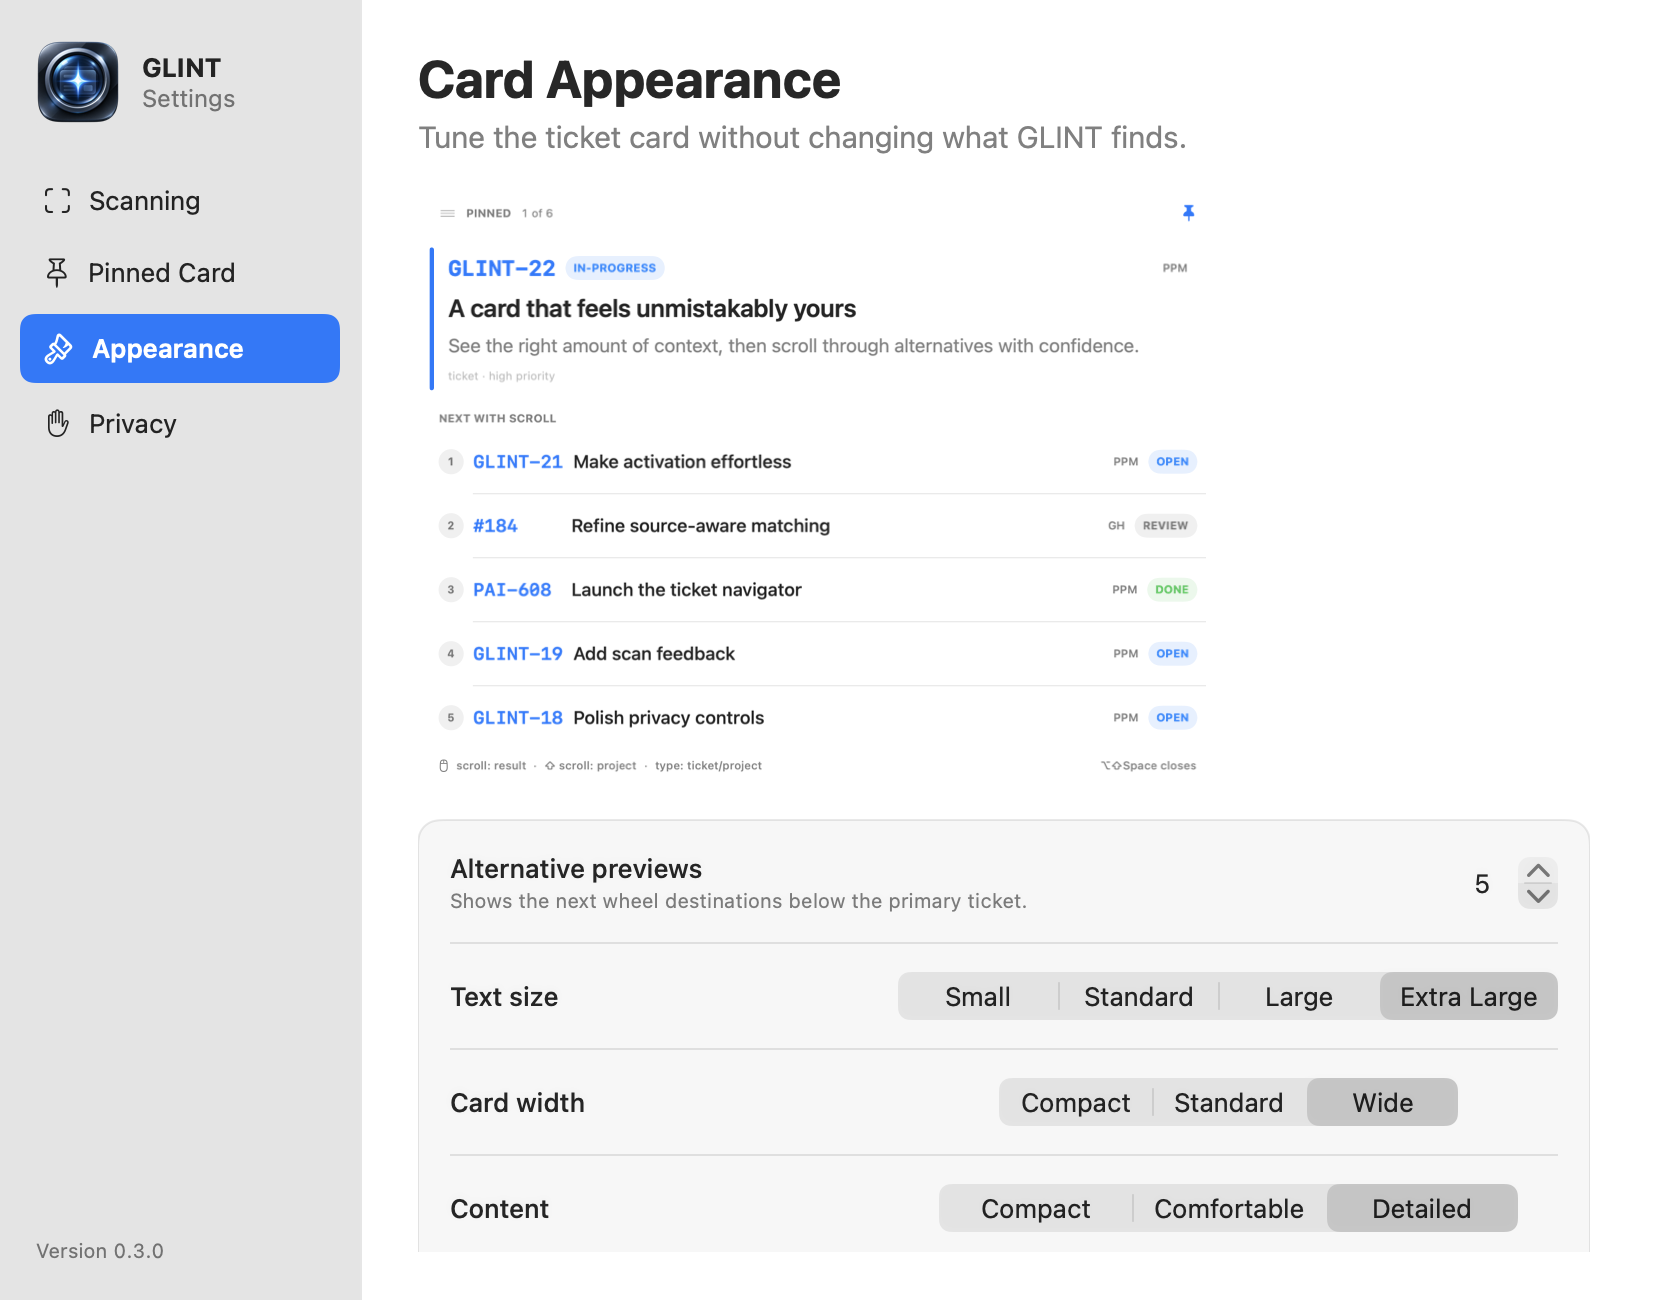
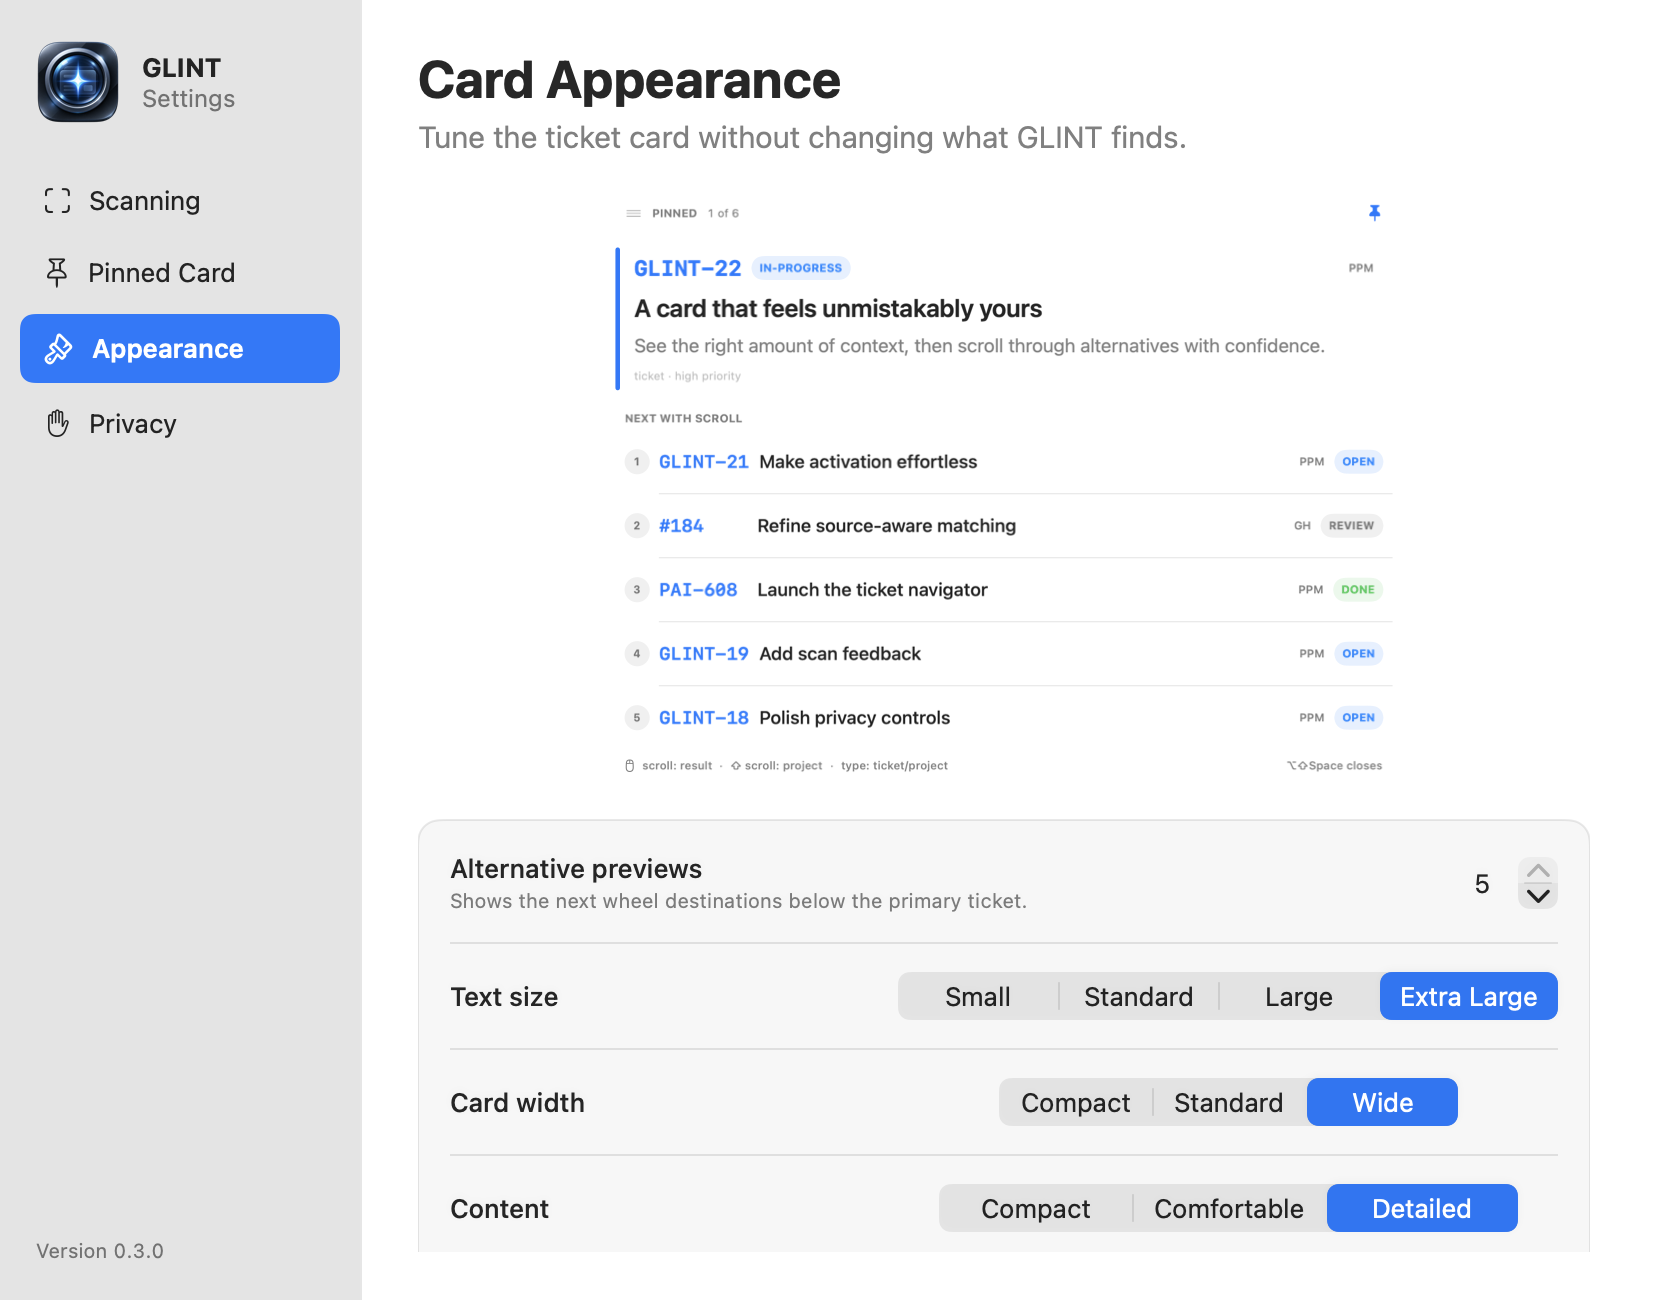
Protect pinned input from stale scans

diff --git a/Sources/Glint/HoverCoordinator.swift b/Sources/Glint/HoverCoordinator.swift
@@ -56,6 +56,25 @@ enum DirectEntryResolutionPlanner {
     }
 }
 
+enum PinnedScanOwnershipPolicy {
+    static func shouldInvalidateForInput(alreadyClaimed: Bool) -> Bool {
+        !alreadyClaimed
+    }
+
+    static func permitsCompletion(
+        startedScanGeneration: Int,
+        currentScanGeneration: Int,
+        startedDirectGeneration: Int,
+        currentDirectGeneration: Int,
+        startedEditGeneration: Int,
+        currentEditGeneration: Int
+    ) -> Bool {
+        startedScanGeneration == currentScanGeneration &&
+            startedDirectGeneration == currentDirectGeneration &&
+            startedEditGeneration == currentEditGeneration
+    }
+}
+
 @MainActor final class HoverCoordinator {
     private enum Presentation { case temporary, pinned }
 
@@ -78,6 +97,8 @@ enum DirectEntryResolutionPlanner {
     private var editState = PinnedEditState()
     private var editTask: Task<Void, Never>?
     private var directGeneration = 0
+    private var pinnedEditGeneration = 0
+    private var pinnedInputClaimedCurrentScan = false
     private struct PendingManualScan {
         let position: CGPoint
         let presentation: Presentation
@@ -119,6 +140,7 @@ enum DirectEntryResolutionPlanner {
         }
         directGeneration += 1
         let presentation: Presentation = overlay.isSticky ? .pinned : .temporary
+        if presentation == .pinned { beginPinnedScanOwnership() }
         if isScanning {
             scanGeneration += 1
             activeScanTask?.cancel()
@@ -159,12 +181,14 @@ enum DirectEntryResolutionPlanner {
             return
         case .pinTemporary:
             resetEditing()
+            beginPinnedScanOwnership()
             overlay.pin(shortcutLabel: pinShortcutLabel)
             syncSelectionContext()
             appState?.activity = "Pinned"
             return
         case .openPinned:
             resetEditing()
+            beginPinnedScanOwnership()
         }
         overlay.openPinned(shortcutLabel: pinShortcutLabel)
         appState?.activity = "Pinned · reading near pointer…"
@@ -284,6 +308,9 @@ enum DirectEntryResolutionPlanner {
         guard !isScanning, let plan = CapturePlan.around(position) else { return false }
         guard CGPreflightScreenCaptureAccess() else { appState?.screenRecordingGranted = false; return false }
         let generation = scanGeneration
+        let startedDirectGeneration = directGeneration
+        let startedEditGeneration = pinnedEditGeneration
+        if presentation == .pinned { pinnedInputClaimedCurrentScan = false }
         // Capture once per accepted scan (never on the 20 Hz pointer timer). Keeping this
         // uncached preserves the foreground window title that belongs to this invocation.
         let foreground = ForegroundApplicationContext.capture()
@@ -364,7 +391,15 @@ enum DirectEntryResolutionPlanner {
                 }
             }
             if presentation == .pinned {
-                guard overlay.isSticky else { return }
+                guard overlay.isSticky,
+                      PinnedScanOwnershipPolicy.permitsCompletion(
+                        startedScanGeneration: generation,
+                        currentScanGeneration: scanGeneration,
+                        startedDirectGeneration: startedDirectGeneration,
+                        currentDirectGeneration: directGeneration,
+                        startedEditGeneration: startedEditGeneration,
+                        currentEditGeneration: pinnedEditGeneration
+                      ) else { return }
                 if lines.isEmpty {
                     overlay.showPinnedStatus(tokens.isEmpty ? "No nearby ticket token" : "No real ticket match")
                     appState?.activity = tokens.isEmpty ? "No nearby ticket token" : "No match"
@@ -457,6 +492,11 @@ enum DirectEntryResolutionPlanner {
     }
 
     private func handleInput(_ event: PinnedInputEvent) {
+        if eventClaimsPinnedResults(event) {
+            pinnedEditGeneration += 1
+            directGeneration += 1
+            claimPinnedInputOwnershipIfNeeded()
+        }
         switch event {
         case let .digits(value):
             editState.appendDigits(value)
@@ -544,6 +584,7 @@ enum DirectEntryResolutionPlanner {
     }
 
     private func resolveDirect(project: ProjectDescriptor, number: Int) {
+        claimPinnedInputOwnershipIfNeeded()
         editTask?.cancel(); directGeneration += 1
         let generation = directGeneration
         let key = "\(project.key)-\(number)"
@@ -579,6 +620,28 @@ enum DirectEntryResolutionPlanner {
     private func resetEditing() {
         editTask?.cancel(); editTask = nil; editState.clear()
     }
+
+    private func beginPinnedScanOwnership() {
+        pinnedInputClaimedCurrentScan = false
+    }
+
+    private func claimPinnedInputOwnershipIfNeeded() {
+        guard PinnedScanOwnershipPolicy.shouldInvalidateForInput(
+            alreadyClaimed: pinnedInputClaimedCurrentScan
+        ) else { return }
+        pinnedInputClaimedCurrentScan = true
+        scanGeneration += 1
+        activeScanTask?.cancel()
+        pendingManualScan = nil
+        scanFeedback.cancel()
+        appState?.activity = "Pinned · editing"
+    }
+
+    private func eventClaimsPinnedResults(_ event: PinnedInputEvent) -> Bool {
+        if case .escape = event { return false }
+        return true
+    }
+
     private func closePinned() {
         clearManualInspection()
         pendingManualScan = nil

diff --git a/Sources/Glint/SelfTests.swift b/Sources/Glint/SelfTests.swift
@@ -225,6 +225,37 @@ enum SelfTests {
            !QueuedScanLifecyclePolicy.shouldRetargetAfterPointerMovement(source: .automaticHover) else {
             fputs("self-test failed: queued scan generation lifecycle\n", stderr); exit(1)
         }
+        let normalPinnedCompletion = PinnedScanOwnershipPolicy.permitsCompletion(
+            startedScanGeneration: 40,
+            currentScanGeneration: 40,
+            startedDirectGeneration: 7,
+            currentDirectGeneration: 7,
+            startedEditGeneration: 3,
+            currentEditGeneration: 3
+        )
+        let lateResolvedCompletion = PinnedScanOwnershipPolicy.permitsCompletion(
+            startedScanGeneration: 40,
+            currentScanGeneration: 41,
+            startedDirectGeneration: 7,
+            currentDirectGeneration: 9,
+            startedEditGeneration: 3,
+            currentEditGeneration: 4
+        )
+        let lateNoMatchCompletion = PinnedScanOwnershipPolicy.permitsCompletion(
+            startedScanGeneration: 40,
+            currentScanGeneration: 41,
+            startedDirectGeneration: 7,
+            currentDirectGeneration: 8,
+            startedEditGeneration: 3,
+            currentEditGeneration: 4
+        )
+        guard PinnedScanOwnershipPolicy.shouldInvalidateForInput(alreadyClaimed: false),
+              !PinnedScanOwnershipPolicy.shouldInvalidateForInput(alreadyClaimed: true),
+              normalPinnedCompletion,
+              !lateResolvedCompletion,
+              !lateNoMatchCompletion else {
+            fputs("self-test failed: pinned input owns late scan results/no-match\n", stderr); exit(1)
+        }
         guard ScanCuePolicy.showsInvoked(for: .explicitCommand),
               !ScanCuePolicy.showsInvoked(for: .automaticHover),
               ScanCuePolicy.terminal(for: .explicitCommand, hasResolvedResult: false, hasAnchor: false) == .noMatch,
@@ -386,6 +417,55 @@ enum SelfTests {
               pinnedBody + OverlayMetrics.pinnedReservedChromeHeight <= constrainedOverlay.height + 0.001 else {
             fputs("self-test failed: footer-safe max-stress pinned layout\n", stderr); exit(1)
         }
+        let shortStressLines = [
+            GlintLine(
+                key: "GLINT-24",
+                state: "in-progress",
+                title: "Make detailed ticket cards adapt precisely to long real-world titles without hiding alternatives",
+                source: "ppm",
+                metadata: "ticket · high priority · release 0.3",
+                detail: "A deliberately long tracker detail verifies that the primary result remains legible while every alternative row is either fully visible or omitted from the rail."
+            )
+        ] + Array(previewLines.prefix(5))
+        let shortVisibleFrame = CGRect(x: 0, y: 0, width: 900, height: 500)
+        let shortOverlay = OverlayMetrics.size(
+            lines: shortStressLines,
+            sticky: true,
+            preferences: presentation,
+            visibleFrame: shortVisibleFrame
+        )
+        let shortAlternativeCount = OverlayMetrics.visibleAlternativeCount(
+            lines: shortStressLines,
+            selectedIndex: 0,
+            preferences: presentation,
+            width: shortOverlay.width,
+            totalHeight: shortOverlay.height
+        )
+        let shortPrimaryHeight = OverlayMetrics.primaryHeight(
+            line: shortStressLines[0],
+            preferences: presentation,
+            width: shortOverlay.width
+        )
+        let shortBodyBudget = OverlayMetrics.pinnedBodyHeight(totalHeight: shortOverlay.height)
+        let shortUsedHeight = shortPrimaryHeight + OverlayMetrics.sectionSpacing +
+            OverlayMetrics.alternativeBlockHeight(
+                count: shortAlternativeCount,
+                sticky: true,
+                preferences: presentation
+            )
+        let shortNextHeight = shortPrimaryHeight + OverlayMetrics.sectionSpacing +
+            OverlayMetrics.alternativeBlockHeight(
+                count: shortAlternativeCount + 1,
+                sticky: true,
+                preferences: presentation
+            )
+        guard shortAlternativeCount > 0,
+              shortAlternativeCount < presentation.alternativePreviews,
+              shortPrimaryHeight <= shortBodyBudget,
+              shortUsedHeight <= shortBodyBudget,
+              shortNextHeight > shortBodyBudget else {
+            fputs("self-test failed: short-display whole-row alternative budget\n", stderr); exit(1)
+        }
         let negativeDisplay = CGRect(x: -1920, y: 0, width: 1920, height: 1080)
         let negativeScreen = CGRect(x: -1920, y: -120, width: 1920, height: 1080)
         let syntheticCapture = CapturePlan(
@@ -479,7 +559,9 @@ enum SelfTests {
         guard ResolutionHistoryStore.load(defaults: defaults).entries.isEmpty,
               defaults.object(forKey: "lastSeenTracker") == nil,
               defaults.object(forKey: "lastPPMProject") == nil,
-              defaults.object(forKey: "lastPMAProject") == nil else {
+              defaults.object(forKey: "lastPMAProject") == nil,
+              defaults.object(forKey: "pinnedProject") == nil,
+              defaults.object(forKey: "pinnedNumber") == nil else {
             fputs("self-test failed: learned context clear\n", stderr); exit(1)
         }
         let resolverFailures = ResolverDeterministicChecks.run()

diff --git a/Sources/Glint/OverlayController.swift b/Sources/Glint/OverlayController.swift
@@ -33,6 +33,28 @@ enum OverlayMetrics {
         return CGSize(width: width, height: min(preferred, max(190, visibleFrame.height - 24)))
     }
 
+    static func visibleAlternativeCount(
+        lines: [GlintLine],
+        selectedIndex: Int,
+        preferences: PresentationPreferences,
+        width: CGFloat,
+        totalHeight: CGFloat
+    ) -> Int {
+        guard !lines.isEmpty else { return 0 }
+        let requested = min(preferences.alternativePreviews, max(0, lines.count - 1))
+        guard requested > 0 else { return 0 }
+        let normalizedIndex = ((selectedIndex % lines.count) + lines.count) % lines.count
+        let primary = primaryHeight(line: lines[normalizedIndex], preferences: preferences, width: width)
+        let available = pinnedBodyHeight(totalHeight: totalHeight)
+        return stride(from: requested, through: 1, by: -1).first { count in
+            primary + sectionSpacing + alternativeBlockHeight(
+                count: count,
+                sticky: true,
+                preferences: preferences
+            ) <= available
+        } ?? 0
+    }
+
     static func primaryHeight(line: GlintLine, preferences: PresentationPreferences, width: CGFloat) -> CGFloat {
         let cardPadding = preferences.density.verticalPadding
         let textWidth = max(160, width - outerPadding * 2 - cardPadding * 2)
@@ -170,10 +192,12 @@ struct OverlayContent: View {
         VStack(alignment: .leading, spacing: 8) {
             if sticky {
                 pinnedHeader
-                ScrollView(.vertical, showsIndicators: false) {
-                    resultBody
-                }
-                .frame(height: OverlayMetrics.pinnedBodyHeight(totalHeight: constrainedSize.height))
+                resultBody
+                .frame(
+                    height: OverlayMetrics.pinnedBodyHeight(totalHeight: constrainedSize.height),
+                    alignment: .top
+                )
+                .clipped()
                 pinnedFooter.fixedSize(horizontal: false, vertical: true)
             } else {
                 resultBody
@@ -186,7 +210,18 @@ struct OverlayContent: View {
     }
 
     private var selectedLine: GlintLine? { lines.indices.contains(selectedIndex) ? lines[selectedIndex] : lines.first }
-    private var alternativeIndices: [Int] { preferences.circularAlternativeIndices(count: lines.count, selectedIndex: selectedIndex) }
+    private var alternativeIndices: [Int] {
+        let indices = preferences.circularAlternativeIndices(count: lines.count, selectedIndex: selectedIndex)
+        guard sticky else { return indices }
+        let visibleCount = OverlayMetrics.visibleAlternativeCount(
+            lines: lines,
+            selectedIndex: selectedIndex,
+            preferences: preferences,
+            width: constrainedSize.width,
+            totalHeight: constrainedSize.height
+        )
+        return Array(indices.prefix(visibleCount))
+    }
 
     @ViewBuilder private var resultBody: some View {
         VStack(alignment: .leading, spacing: OverlayMetrics.sectionSpacing) {
@@ -286,6 +321,7 @@ struct AppearanceCardPreview: View {
                 .scaleEffect(scale, anchor: .topLeading)
                 .frame(width: actualWidth * scale, height: height * scale, alignment: .topLeading)
                 .accessibilityLabel("Live ticket card preview")
+                .frame(maxWidth: .infinity, alignment: .top)
         }
         .frame(height: min(300, OverlayMetrics.preferredHeight(lines: sampleLines, sticky: true, preferences: preferences)))
         .clipped()

diff --git a/Sources/Glint/Models.swift b/Sources/Glint/Models.swift
@@ -166,6 +166,11 @@ struct PinnedTicketContext: Equatable, Sendable {
         if let number { defaults.set(number, forKey: "pinnedNumber") }
         else { defaults.removeObject(forKey: "pinnedNumber") }
     }
+
+    static func clear(defaults: UserDefaults = .standard) {
+        defaults.removeObject(forKey: "pinnedProject")
+        defaults.removeObject(forKey: "pinnedNumber")
+    }
 }
 
 enum CandidateSpec: Hashable, Sendable {

diff --git a/Sources/Glint/ResolutionEvidence.swift b/Sources/Glint/ResolutionEvidence.swift
@@ -228,6 +228,7 @@ enum LearnedContextStore {
     static func clear(defaults: UserDefaults = .standard) {
         ResolutionHistoryStore.clear(defaults: defaults)
         ResolutionContext.clear(defaults: defaults)
+        PinnedTicketContext.clear(defaults: defaults)
     }
 }
 
